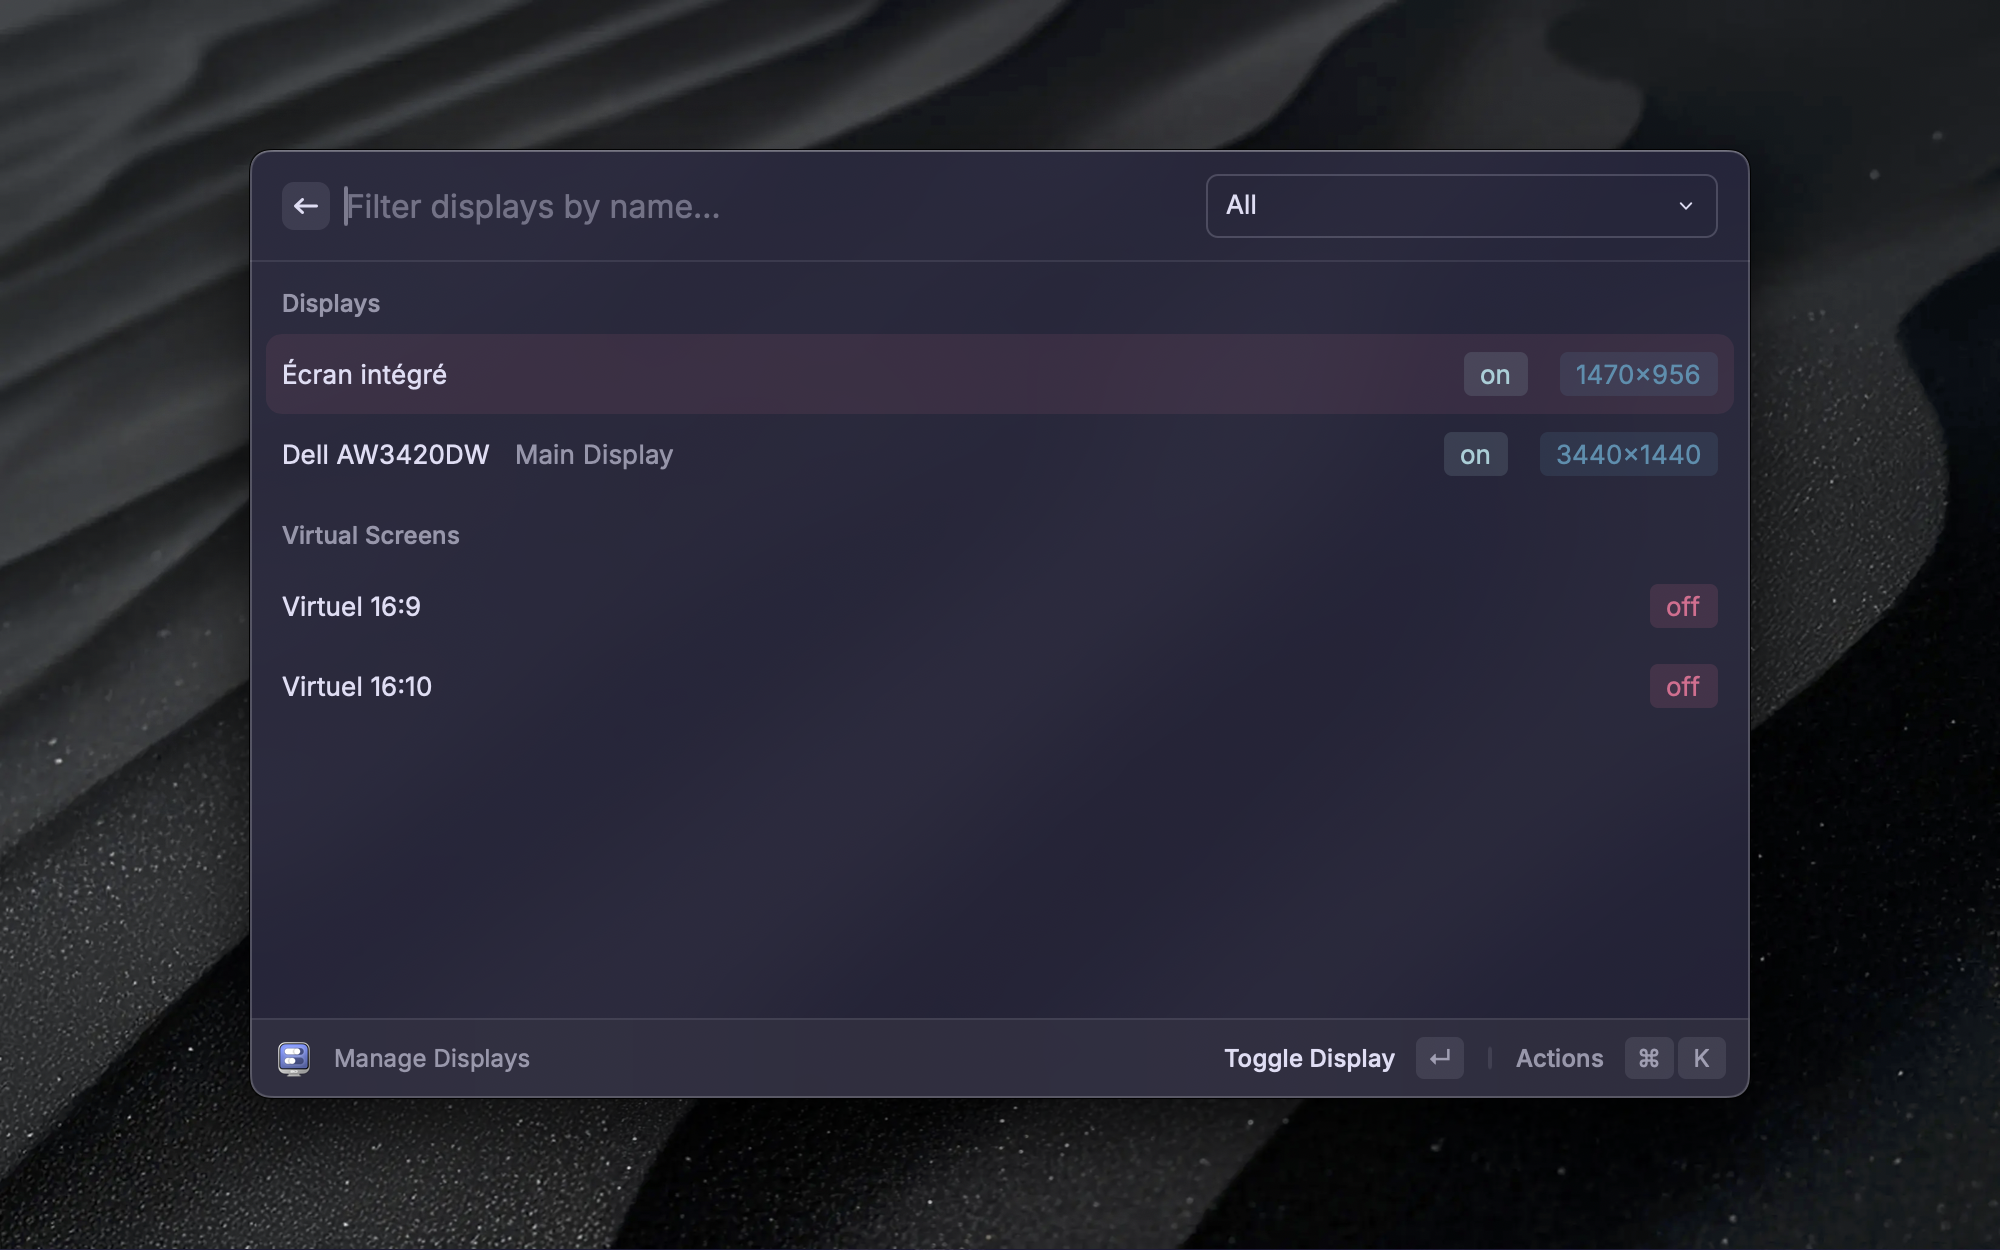
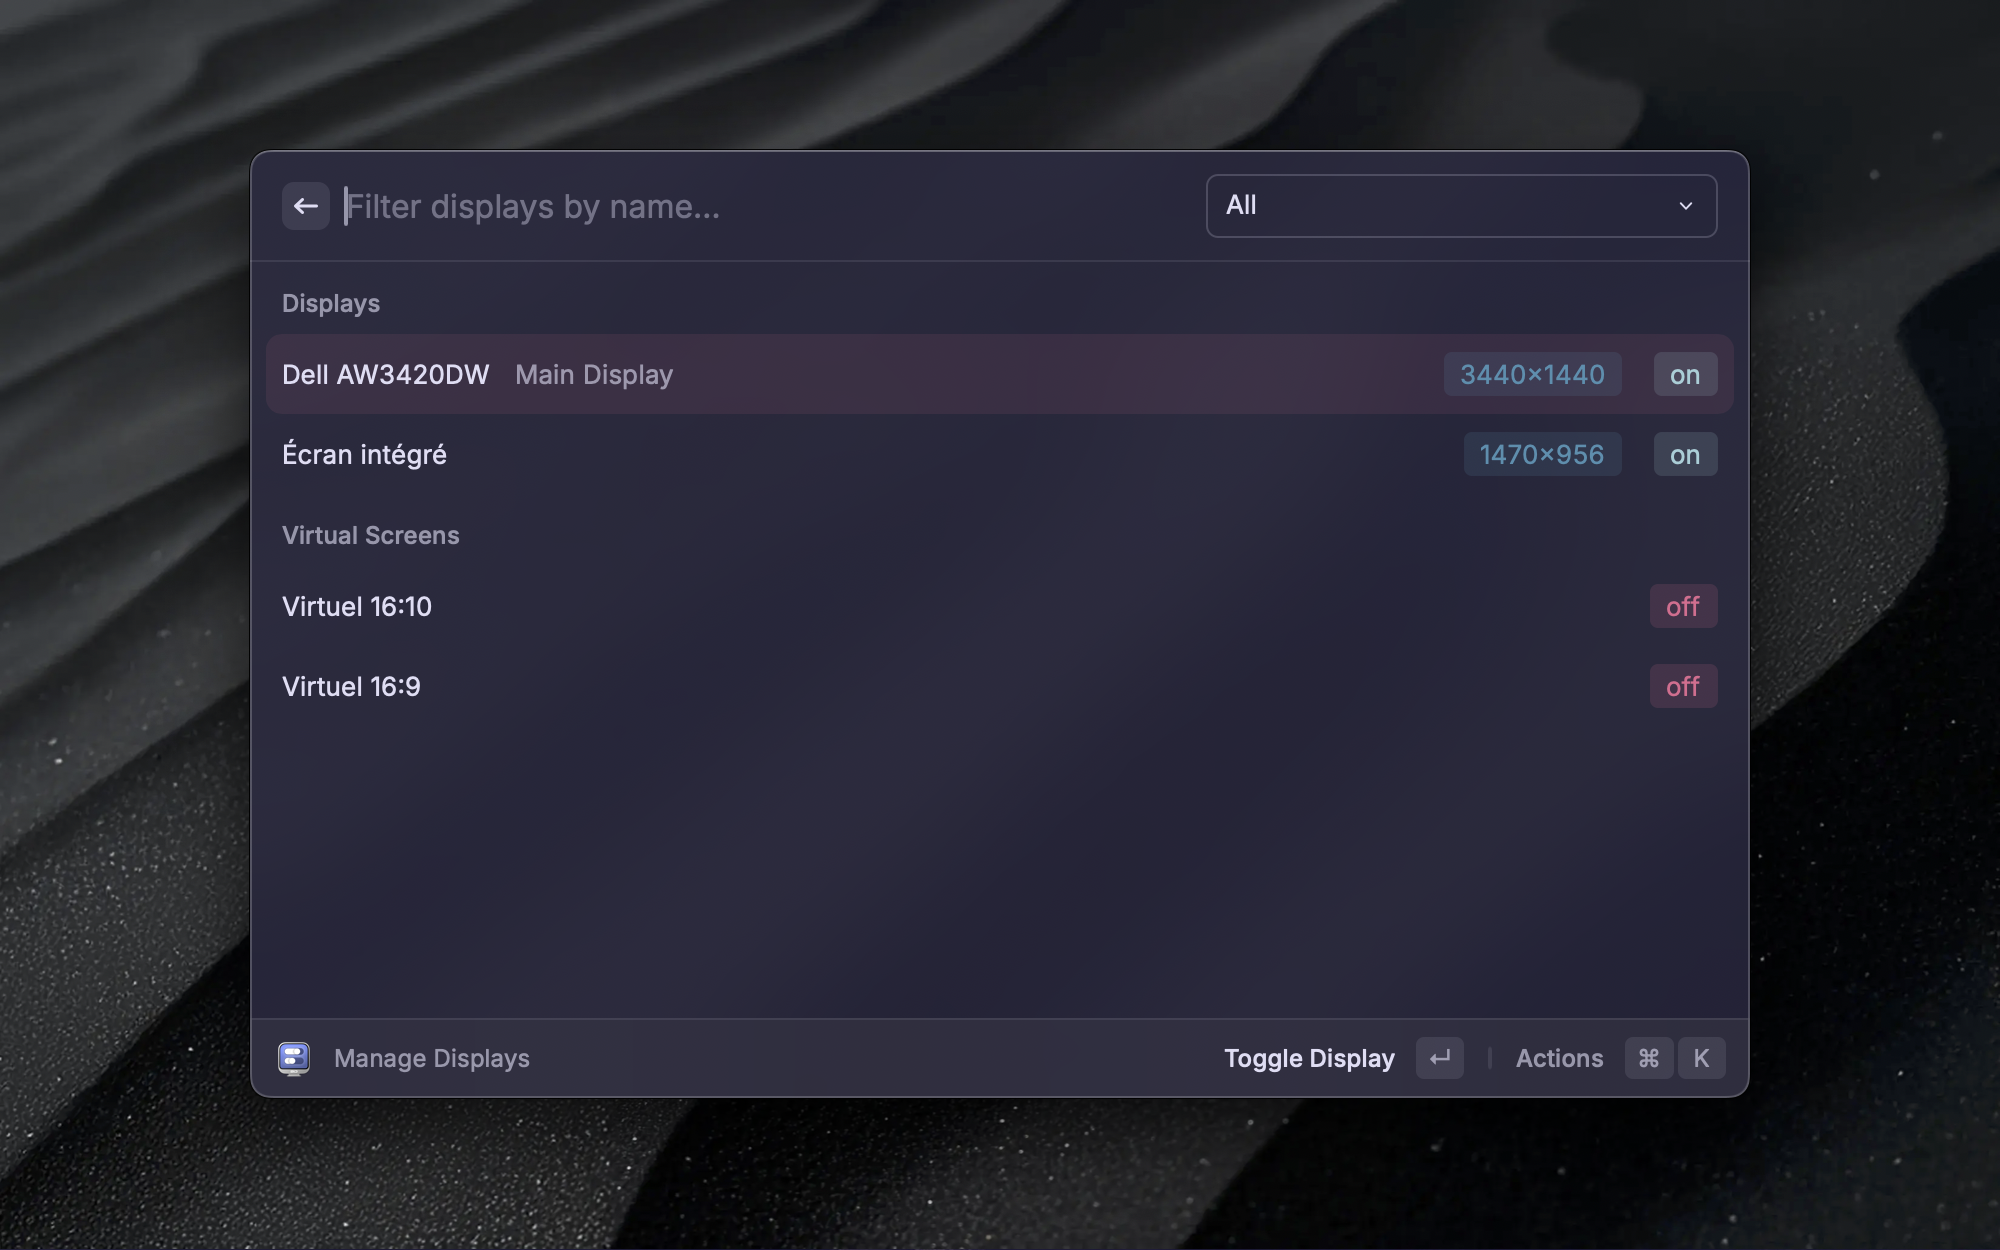
refactor: avoid uneccessary CLI calls and reorder tags

diff --git a/src/manage-displays.tsx b/src/manage-displays.tsx
@@ -45,13 +45,18 @@ function DisplayItem({ display, status, resolution, isMain, onToggle }: DisplayI
 
   useEffect(() => {
     async function checkAvailability() {
-      const availB = await availabilityBrightness(display.tagID);
-      const availC = await availabilityContrast(display.tagID);
-      setBrightnessAvailable(availB);
-      setContrastAvailable(availC);
+      if (normalizedStatus.toLowerCase() === "on") {
+        const availB = await availabilityBrightness(display.tagID);
+        const availC = await availabilityContrast(display.tagID);
+        setBrightnessAvailable(availB);
+        setContrastAvailable(availC);
+      } else {
+        setBrightnessAvailable(false);
+        setContrastAvailable(false);
+      }
     }
     checkAvailability();
-  }, [display.tagID]);
+  }, [display.tagID, normalizedStatus]);
 
   // Helper to wrap actions with toast notifications.
   async function handleAction(
@@ -74,7 +79,7 @@ function DisplayItem({ display, status, resolution, isMain, onToggle }: DisplayI
     { tag: { value: normalizedStatus, color: statusColor } },
   ];
   if (normalizedStatus.toLowerCase() === "on" && resolution && resolution !== "Loading") {
-    accessories.push({ tag: { value: resolution, color: Color.Blue } });
+    accessories.unshift({ tag: { value: resolution, color: Color.Blue } });
   }
 
   return (
